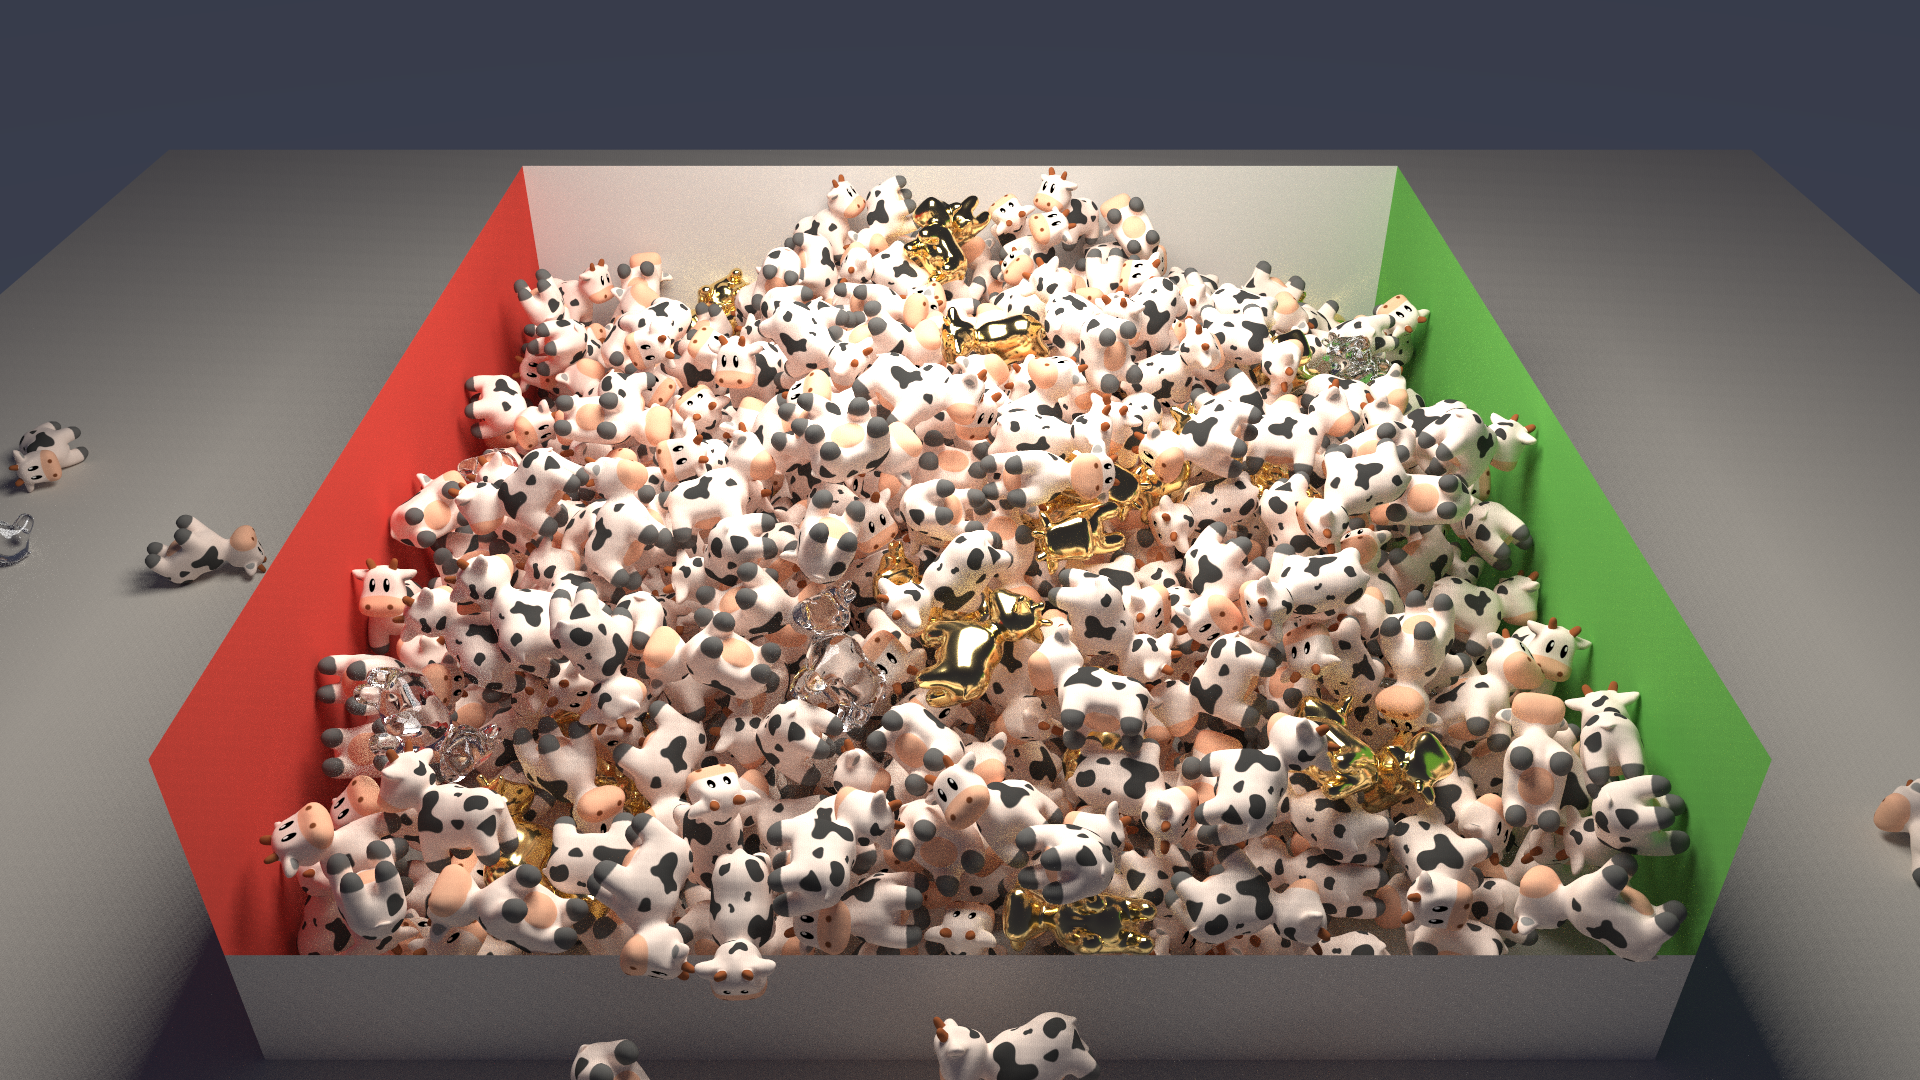
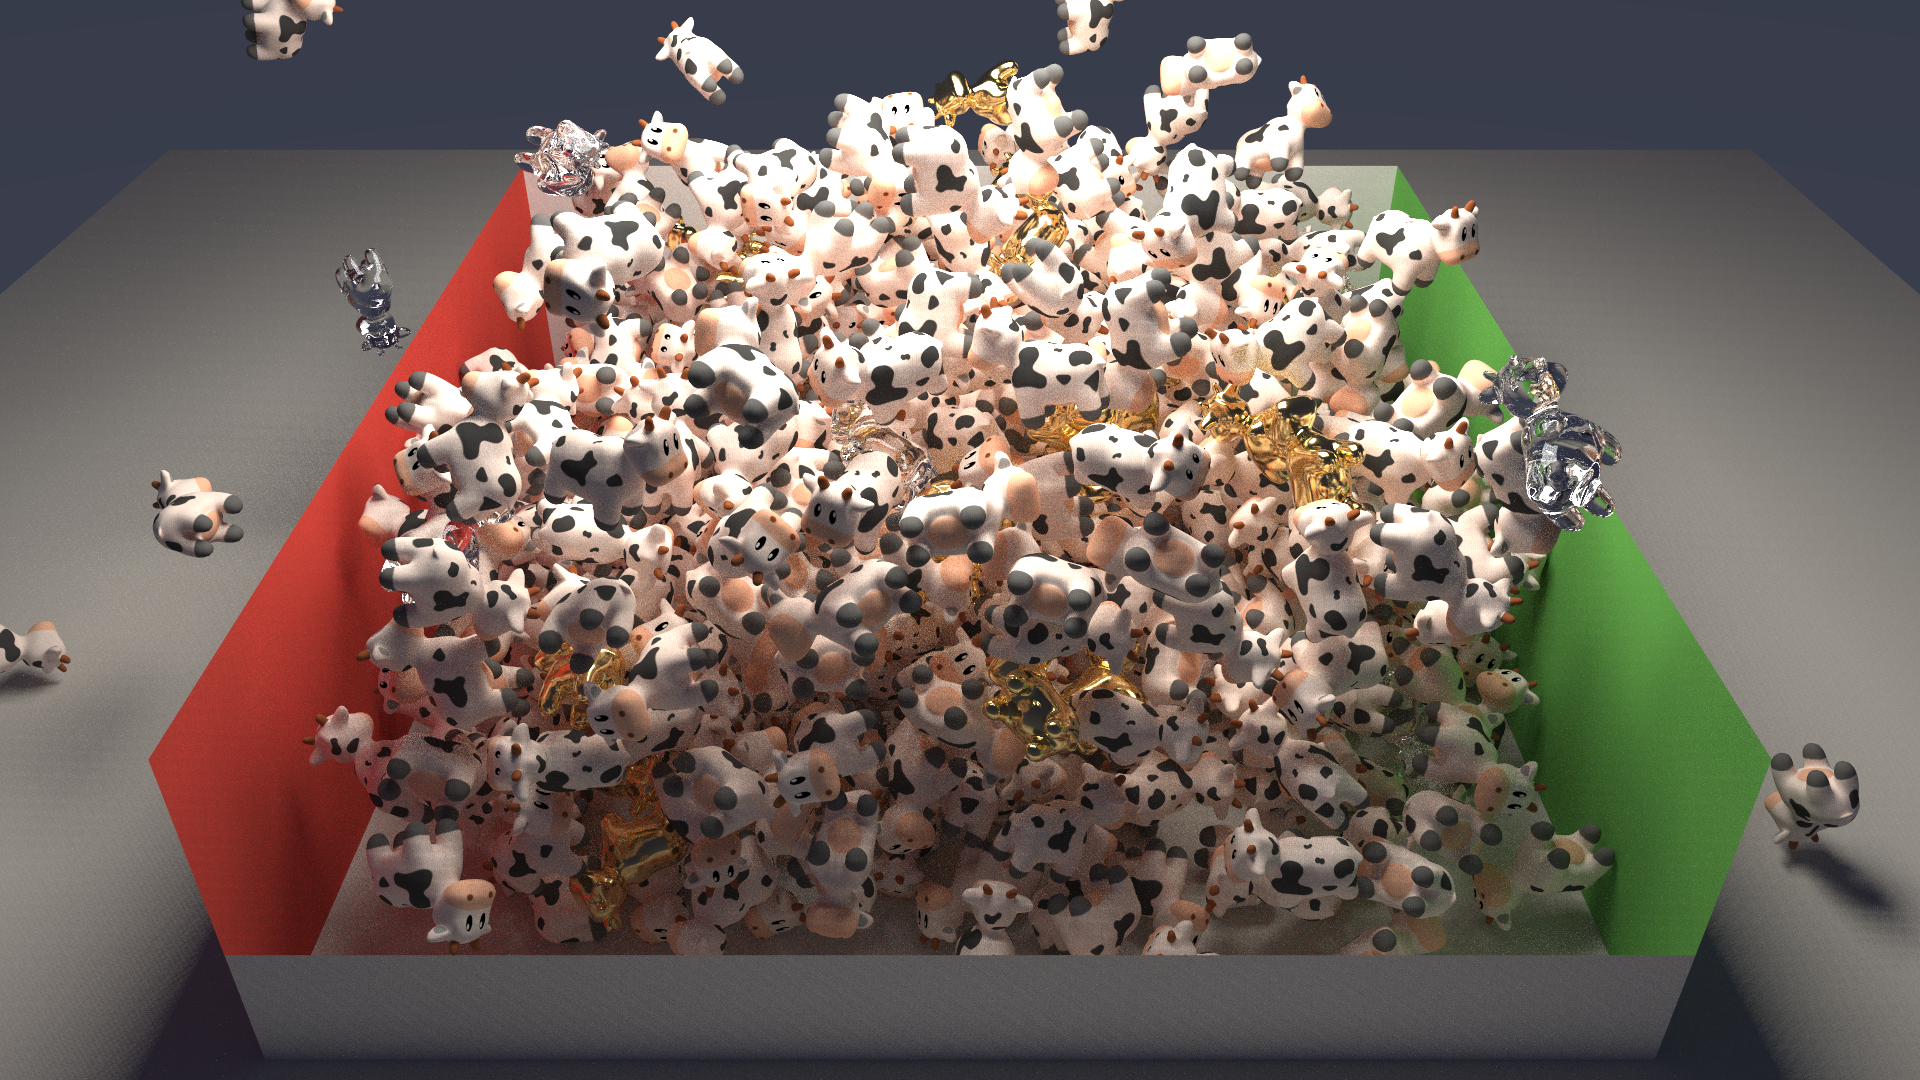
画廊 06 主图换成倾泻第 1.0 秒定格，静止堆作对照图
- render-gallery.sh：06 主图 --physics-time 1.0，新增 06-spot-cascade-settled
  对照（同一初始条件模拟到全睡），DESC 同步
- README：主图说明 + 对照链接 + CLI --physics-time；GALLERY.md 重生成

diff --git a/docs/GALLERY.md b/docs/GALLERY.md
@@ -49,17 +49,24 @@ Cornell 盒变体：暖色小面积主灯加冷色低强度月光球，四档粗
 
 ![06-spot-cascade](gallery/06-spot-cascade.png)
 
-512 只 Spot 从空中倾泻进康奈尔配色的房间：场景 JSON 只声明初始位姿与速度，加载时由 NVIDIA PhysX GPU 刚体模拟（eENABLE_GPU_DYNAMICS）沉降到静止再烘焙渲染——堆叠形态完全出自物理，混入金色金属与玻璃奶牛。
+512 只 Spot 倾泻到第 1.0 秒的锐利定格：场景 JSON 只声明初始位姿与速度，加载时由 NVIDIA PhysX GPU 刚体模拟（eENABLE_GPU_DYNAMICS）推进到指定瞬间（--physics-time）烘焙渲染——下层已开始堆积，上方牛雨仍在翻滚下落，墙外有被弹飞的散兵。
+
+## 06-spot-cascade-settled
+
+![06-spot-cascade-settled](gallery/06-spot-cascade-settled.png)
+
+同一份初始条件模拟到全体休眠的静止堆（对照）：不同时刻、同一物理，堆叠形态完全出自模拟。
 
 ## 渲染统计
 
 | 图像 | 分辨率 | spp | 降噪 | 渲染时间 (s) | Mrays/s | 峰值显存 (MB) |
 |---|---|---|---|---|---|---|
-| 01-prism-court | 1920x1080 | 512 | 否 | 0.70 | 5190 | 690 |
-| 02-cornell-lume | 1920x1080 | 512 | 否 | 1.25 | 5335 | 690 |
-| 03-spot-atrium | 1920x1080 | 256 | 否 | 0.21 | 6769 | 694 |
-| 03-spot-atrium-spp32-denoised | 1920x1080 | 32 | 是 | 0.03 | 6776 | 696 |
-| 03-spot-atrium-spp32-raw | 1920x1080 | 32 | 否 | 0.03 | 6801 | 694 |
-| 04-parabolica | 1920x1080 | 512 | 否 | 0.38 | 6607 | 694 |
-| 05-spot-swarm | 1920x1080 | 128 | 否 | 0.18 | 4090 | 708 |
-| 06-spot-cascade | 1920x1080 | 256 | 否 | 0.48 | 4652 | 694 |
+| 01-prism-court | 1920x1080 | 512 | 否 | 0.70 | 5188 | 690 |
+| 02-cornell-lume | 1920x1080 | 512 | 否 | 1.25 | 5341 | 690 |
+| 03-spot-atrium | 1920x1080 | 256 | 否 | 0.21 | 6775 | 694 |
+| 03-spot-atrium-spp32-denoised | 1920x1080 | 32 | 是 | 0.03 | 6797 | 696 |
+| 03-spot-atrium-spp32-raw | 1920x1080 | 32 | 否 | 0.03 | 6779 | 694 |
+| 04-parabolica | 1920x1080 | 512 | 否 | 0.38 | 6606 | 694 |
+| 05-spot-swarm | 1920x1080 | 128 | 否 | 0.18 | 4079 | 708 |
+| 06-spot-cascade | 1920x1080 | 256 | 否 | 0.50 | 4563 | 694 |
+| 06-spot-cascade-settled | 1920x1080 | 256 | 否 | 0.48 | 4653 | 694 |

diff --git a/README.md b/README.md
@@ -18,8 +18,10 @@ Blackwell）。输入场景 JSON，输出 PNG：megakernel 路径追踪（NEE + 
 
 ![Spot Cascade](docs/gallery/06-spot-cascade.png)
 
-**Spot Cascade** — 512 只奶牛的堆叠姿态由 **PhysX GPU 刚体模拟**在加载时沉降得出，
-场景文件里只有初始位姿与速度。
+**Spot Cascade** — 512 只奶牛倾泻到第 1.0 秒的锐利定格（`--physics-time`），
+姿态由 **PhysX GPU 刚体模拟**在加载时算出，场景文件里只有初始位姿与速度。
+同一份初始条件模拟到静止的对照见
+[docs/gallery/06-spot-cascade-settled.png](docs/gallery/06-spot-cascade-settled.png)。
 
 | ![32 spp 原始](docs/gallery/03-spot-atrium-spp32-raw.png) | ![32 spp + AI 降噪](docs/gallery/03-spot-atrium-spp32-denoised.png) |
 |:---:|:---:|
@@ -44,7 +46,8 @@ Blackwell）。输入场景 JSON，输出 PNG：megakernel 路径追踪（NEE + 
 - **灯光**：point（带半径软阴影）、distant，以及 emissive rect/disk/sphere 区域光
 - **物理装载**：场景 JSON 声明刚体初始条件（`physics` 块 + 逐对象 opt-in），
   加载时用 **PhysX 5 GPU 刚体**（`eENABLE_GPU_DYNAMICS` + GPU 宽相，在 RTX 上模拟）
-  沉降到静止并烘焙最终变换，再构建加速结构
+  沉降到静止——或按 `stop_time`/`--physics-time` **锐利定格于运动中的任一瞬间**
+  ——烘焙变换后再构建加速结构
 - **降噪**：OptiX AI denoiser（HDR + albedo/normal 引导 AOV）
 - **决定性**：PCG32，固定 `--seed` 时同 GPU/驱动上逐位一致（golden 测试依赖此性质）
 - **统计**：`--stats` 输出 JSON（分段计时、光线数、Mrays/s、显存峰值）
@@ -84,6 +87,7 @@ sundog --probe
 --size WxH         分辨率                --chunk N      每次 optixLaunch 的 spp（默认 16）
 --max-depth N      路径深度上限          --clamp F      间接光 firefly 钳制（0 = 关）
 --denoise / --no-denoise                 --gamma F      输出 gamma（默认 2.2）
+--physics-time F   刚体定格于模拟第 F 秒（0 = 强制沉降到静止）
 --stats FILE.json  渲染统计              --exposure F   曝光（EV）
 --aov-albedo / --aov-normal F.png        --probe        打印 GPU/驱动/OptiX 信息
 --quiet            关闭进度输出